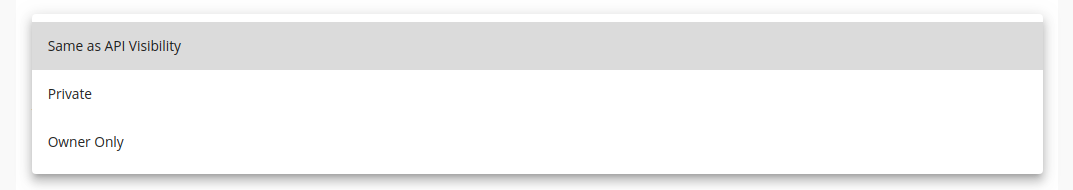
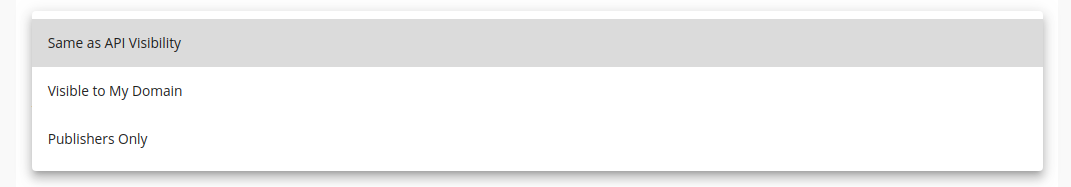
Moved the content under API Documentation section

diff --git a/en/docs/learn/design-api/api-documentation/add-api-documentation.md b/en/docs/learn/design-api/api-documentation/add-api-documentation.md
@@ -206,3 +206,41 @@ Follow the instructions below to add documentation to an API:
      [![View API related documentation]({{base_path}}/assets/img/learn/view-docs-api.png)]({{base_path}}/assets/img/learn/view-docs-api.png)
 
 You have created documentation using the API Publisher and viewed the documentation as a subscriber in the Developer Portal.
+
+### Control API Document Visibility in Developer Portal
+   
+   By default, any document associated with an API has the same visibility level of the API. That is, if the API is
+    public, its documentation is also visible to all users (registered and anonymous).
+    
+!!! note
+    This feature has been disabled in the default setup.
+    
+#### Enabling document visibility in Developer Portal
+   To enable other visibility levels to the documentation, go to the  
+   `<API-M_HOME>/repository/conf/deployment.toml`, 
+   add the following configuration.
+   
+   ``` toml
+   [apim.publisher]
+   enable_api_doc_visibility = "true"
+   ```
+   Document visibility levels can be one of the following options:
+
+   - **Same as API visibility:** visible to the same user roles who can see the API. For example, if the API's visibility is public, its documentation is visible to all users.
+   - **Visible to My Domain:** visible to all registered users in the API's tenant domain.
+   - **Publishers Only:** visible only to the users who have permission to log in to the API Publisher web interface and
+    create and/or publish APIs to the Developer Portal.
+
+#### Control API document visibility using the API Publisher
+1.  Sign in to the API Publisher as an API creator using the following URL: 
+
+     `https://<localhost>:9443/publisher`
+
+2.  [Create a new API]({{base_path}}/learn/design-api/create-api/create-a-rest-api/) or edit an existing API.
+
+3.  In the **Documents** tab, Click **Add New Document**, to see a new drop-down list added to select visibility from.
+     [ ![API document visibility selector]({{base_path}}/assets/img/learn/api-doc-visibility-selector.png) ](/{{base_path}}/assets/img/learn/api-doc-visibility-selector.png)
+4.  Select the desired visibility level for the document. 
+     [ ![API document visibility selector dropdown]({{base_path}}/assets/img/learn/api-doc-visibility-dropdown.png) ](/{{base_path}}/assets/img/learn/api-doc-visibility-dropdown.png)
+5.  Add the Document.
+ 

diff --git a/en/docs/learn/design-api/advanced-topics/control-api-visibility-and-subscription-availability-in-developer-portal.md b/en/docs/learn/design-api/advanced-topics/control-api-visibility-and-subscription-availability-in-developer-portal.md
@@ -125,47 +125,5 @@ When using the REST API directly, the subscription availability options are avai
     </table>
     
     
-## Control API Document Visibility in Developer Portal
-
-By default, any document associated with an API has the same visibility level of the API. That is, if the API is public, 
-its documentation is also visible to all users (registered and anonymous).
-
-!!! note
-    This feature has been disabled in the default setup.
-     
-To enable other visibility levels to the documentation, go to the  
-`<API-M_HOME>/repository/conf/deployment.toml`, 
-add the following configuration.
-
-``` toml
-[apim.publisher]
-enable_api_doc_visibility = "true"
-```
-
-Document visibility levels can be one of the following options:
-
-- **Same as API visibility:** visible to the same user roles who can see the API. For example, if the API's visibility is public, its documentation is visible to all users.
-- **Owner Only:** visible to all registered users in the API's tenant domain.
-- **Private:** visible only to the users who have permission to log in to the API Publisher web interface and create and/or publish APIs to the Developer Portal.
-
-
-### Control API document visibility using the API Publisher
-
-1.  Sign in to the API Publisher as an API creator using the following URL: 
-
-     `https://<localhost>:9443/publisher`
-
-2.  [Create a new API]({{base_path}}/learn/design-api/create-api/create-a-rest-api/) or edit an existing API.
-
-3.  In the **Documents** tab, Click **Add New Document**, to see a new drop-down list added to select visibility from. 
-Select the desired visibility level for the document.
-     
-     [ ![API document visibility selector]({{base_path}}/assets/img/learn/api-doc-visibility-selector.png) ](/{{base_path}}/assets/img/learn/api-doc-visibility-selector.png)
-     [ ![API document visibility selector dropdown]({{base_path}}/assets/img/learn/api-doc-visibility-dropdown.png) ](/{{base_path}}/assets/img/learn/api-doc-visibility-dropdown.png)
-
-4.  Add the Document.
-
-
-
 
 
